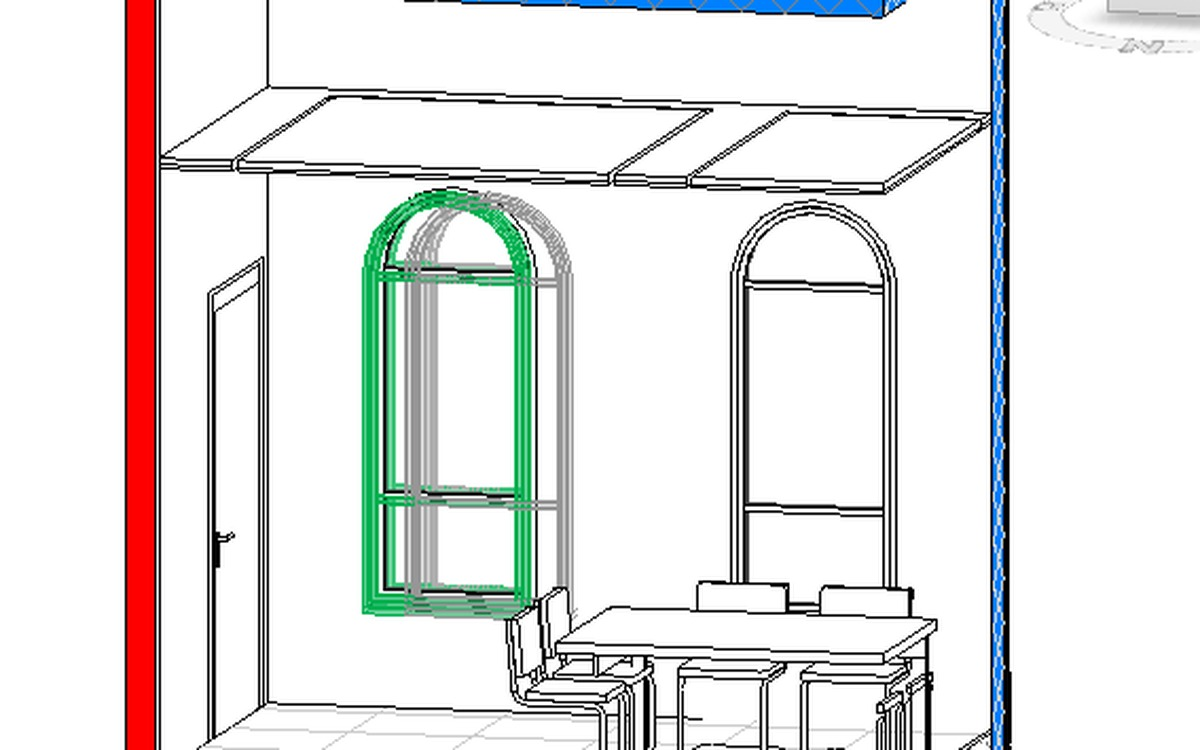
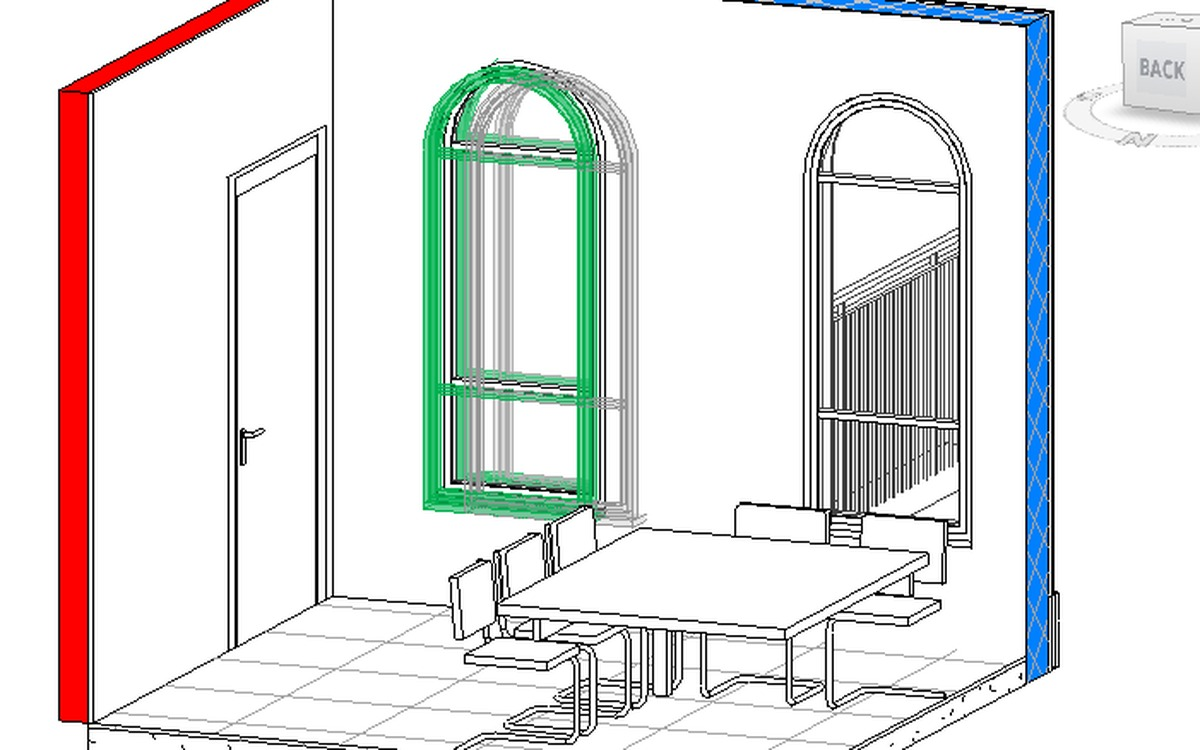
DM: clean before/after pair with the green approved marker

diff --git a/decisionmaker-mockup.html b/decisionmaker-mockup.html
@@ -73,7 +73,7 @@
         <article class="oyl-panel">
           <div class="oyl-media">
             <span class="oyl-id oyl-mono">REVIT_01</span>
-            <img src="media/dm-revit-before.jpg?v=2" alt="">
+            <img src="media/dm-revit-before.jpg?v=3" alt="">
           </div>
           <div class="oyl-body">
             <span class="oyl-kick oyl-mono">IN REVIT</span>
@@ -126,7 +126,7 @@
         <article class="oyl-panel">
           <div class="oyl-media">
             <span class="oyl-id oyl-mono">REVIT_02</span>
-            <img src="media/dm-revit-after.jpg?v=2" alt="">
+            <img src="media/dm-revit-after.jpg?v=3" alt="">
             <span class="dm-approval oyl-mono" dir="ltr">
               <b>Object</b><i>Window 80/200 &middot; id 7797946</i>
               <b>Moved</b><i>20 cm on X axis</i>
